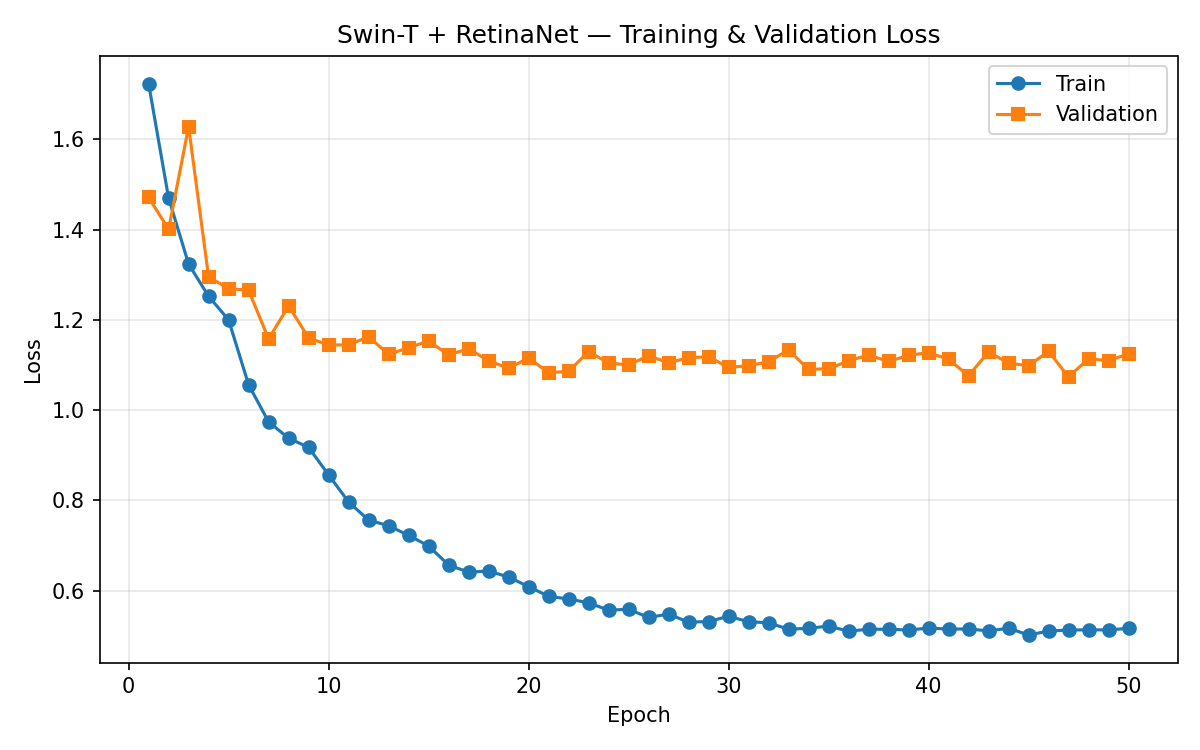
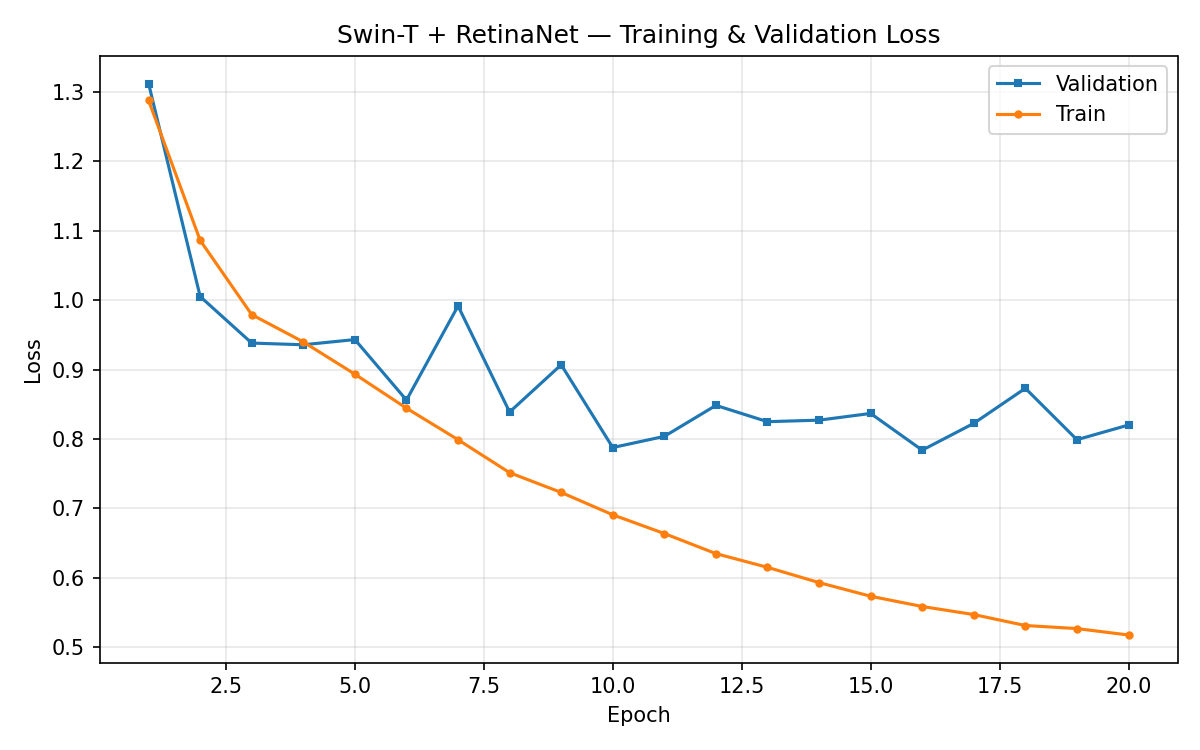
update model

diff --git a/scripts/2.1_swin_transformer_without_ft.py b/scripts/2.1_swin_transformer_without_ft.py
@@ -1,20 +1,16 @@
 #!/usr/bin/env python3
 """
-2.1_swin_transformer.py
-========================
-Swin-T backbone + FPN + RetinaNet for stop-sign / traffic-light detection.
+2.1_swin_transformer_without_ft.py
+==================================
+Swin-T **frozen** ImageNet backbone + trainable FPN + RetinaNet for
+stop-sign / traffic-light detection.  All Swin `features` blocks are
+frozen; only ``backbone.fpn`` and the detection head are updated.
 
-Key training optimisations (vs. previous version):
-  * AMP mixed-precision  → ~40 % faster forward/backward on L40S
-  * Gradient accumulation → large effective batch without OOM
-  * Train-eval only every N epochs (configurable) → halves wall-time
-  * persistent_workers + higher num_workers → faster data loading
-  * Separate eval_batch_size (larger, no grads) → faster inference
+Same optimisations as 2.1_swin_transformer.py (AMP, accum, train-eval stride, etc.).
 
 Usage:
-    python scripts/2.1_swin_transformer.py
-    python scripts/2.1_swin_transformer.py --sweep --epochs 25
-    python scripts/2.1_swin_transformer.py --preset freeze_less
+    python scripts/2.1_swin_transformer_without_ft.py
+    python scripts/2.1_swin_transformer_without_ft.py --epochs 25 --head-lr 3e-4
 """
 
 from __future__ import annotations
@@ -52,7 +48,7 @@ from torchvision.ops.feature_pyramid_network import LastLevelMaxPool
 # ============================================================
 BASE_DIR = Path(__file__).resolve().parent.parent
 DEFAULT_DATA_DIR = BASE_DIR / "dataset"
-DEFAULT_OUTPUT_DIR = BASE_DIR / "swin_runs"
+DEFAULT_OUTPUT_DIR = BASE_DIR / "swin_runs_without_ft"
 
 CLASS_NAMES = {0: "stop sign", 1: "traffic light"}
 NUM_CLASSES = len(CLASS_NAMES) + 1
@@ -62,18 +58,18 @@ IMAGE_EXTENSIONS = (".jpg", ".jpeg", ".png", ".JPG", ".JPEG", ".PNG")
 
 @dataclass
 class TrainConfig:
+    """Swin backbone is always fully frozen; `head_lr` applies to FPN + RetinaNet."""
+
     name: str = "default"
     seed: int = 946
     batch_size: int = 8
     eval_batch_size: int = 16
     num_epochs: int = 20
     head_lr: float = 2e-4
-    backbone_lr: float = 2e-5
     weight_decay: float = 1e-4
     warmup_epochs: int = 5
     num_workers: int = 8
     score_thresh: float = 0.05
-    freeze_stages: int = 4
     min_size: int = 800
     max_size: int = 1333
     accum_steps: int = 2
@@ -82,71 +78,14 @@ class TrainConfig:
 
 
 def default_presets() -> list[TrainConfig]:
+    """Hyperparameter presets (Swin always frozen; only FPN + head vary)."""
     return [
-        TrainConfig(
-            name="default",
-            head_lr=2e-4,
-            backbone_lr=2e-5,
-            freeze_stages=4,
-            weight_decay=1e-4,
-            warmup_epochs=5,
-        ),
-        TrainConfig(
-            name="head_lr_high",
-            head_lr=5e-4,
-            backbone_lr=1e-5,
-            freeze_stages=4,
-            weight_decay=1e-4,
-            warmup_epochs=5,
-        ),
-        TrainConfig(
-            name="head_lr_low",
-            head_lr=1e-4,
-            backbone_lr=3e-5,
-            freeze_stages=4,
-            weight_decay=1e-4,
-            warmup_epochs=5,
-        ),
-        TrainConfig(
-            name="freeze_more",
-            head_lr=3e-4,
-            backbone_lr=5e-5,
-            freeze_stages=6,
-            weight_decay=1e-4,
-            warmup_epochs=5,
-        ),
-        TrainConfig(
-            name="freeze_less",
-            head_lr=2e-4,
-            backbone_lr=1e-5,
-            freeze_stages=2,
-            weight_decay=1e-4,
-            warmup_epochs=5,
-        ),
-        TrainConfig(
-            name="wd_high",
-            head_lr=2e-4,
-            backbone_lr=2e-5,
-            freeze_stages=4,
-            weight_decay=5e-4,
-            warmup_epochs=5,
-        ),
-        TrainConfig(
-            name="wd_low",
-            head_lr=2e-4,
-            backbone_lr=2e-5,
-            freeze_stages=4,
-            weight_decay=5e-5,
-            warmup_epochs=5,
-        ),
-        TrainConfig(
-            name="long_warmup",
-            head_lr=2e-4,
-            backbone_lr=2e-5,
-            freeze_stages=4,
-            weight_decay=1e-4,
-            warmup_epochs=10,
-        ),
+        TrainConfig(name="default", head_lr=2e-4, weight_decay=1e-4, warmup_epochs=5),
+        TrainConfig(name="head_lr_high", head_lr=5e-4, weight_decay=1e-4, warmup_epochs=5),
+        TrainConfig(name="head_lr_low", head_lr=1e-4, weight_decay=1e-4, warmup_epochs=5),
+        TrainConfig(name="wd_high", head_lr=2e-4, weight_decay=5e-4, warmup_epochs=5),
+        TrainConfig(name="wd_low", head_lr=2e-4, weight_decay=5e-5, warmup_epochs=5),
+        TrainConfig(name="long_warmup", head_lr=2e-4, weight_decay=1e-4, warmup_epochs=10),
     ]
 
 
@@ -309,15 +248,13 @@ def _collate(batch):
 class SwinBackboneWithFPN(nn.Module):
     BLOCK_STAGE_INDICES = (1, 3, 5, 7)
 
-    def __init__(self, freeze_stages: int):
+    def __init__(self):
         super().__init__()
         swin = swin_t(weights=Swin_T_Weights.DEFAULT)
         self.stages = swin.features
-
-        for i, stage in enumerate(self.stages):
-            if i < freeze_stages:
-                for param in stage.parameters():
-                    param.requires_grad = False
+        # Entire Swin feature stack frozen — only FPN + RetinaNet train.
+        for p in self.stages.parameters():
+            p.requires_grad = False
 
         self.fpn = FeaturePyramidNetwork(
             in_channels_list=[96, 192, 384, 768],
@@ -336,7 +273,7 @@ class SwinBackboneWithFPN(nn.Module):
 
 
 def build_model(cfg: TrainConfig) -> RetinaNet:
-    backbone = SwinBackboneWithFPN(freeze_stages=cfg.freeze_stages)
+    backbone = SwinBackboneWithFPN()
     anchor_sizes = ((32,), (64,), (128,), (256,), (512,))
     aspect_ratios = ((0.5, 1.0, 2.0),) * len(anchor_sizes)
     anchor_gen = AnchorGenerator(sizes=anchor_sizes, aspect_ratios=aspect_ratios)
@@ -353,20 +290,13 @@ def build_model(cfg: TrainConfig) -> RetinaNet:
 
 
 def get_optimizer_and_scheduler(model: nn.Module, cfg: TrainConfig):
-    backbone_params, other_params = [], []
-    for name, param in model.named_parameters():
-        if not param.requires_grad:
-            continue
-        if "backbone.stages" in name:
-            backbone_params.append(param)
-        else:
-            other_params.append(param)
+    trainable = [p for p in model.parameters() if p.requires_grad]
+    if not trainable:
+        raise RuntimeError("No trainable parameters (FPN + head should be trainable).")
 
     optimizer = optim.AdamW(
-        [
-            {"params": backbone_params, "lr": cfg.backbone_lr},
-            {"params": other_params, "lr": cfg.head_lr},
-        ],
+        trainable,
+        lr=cfg.head_lr,
         weight_decay=cfg.weight_decay,
     )
 
@@ -645,16 +575,16 @@ def save_f1_curves(train_vals, val_vals, out_dir: Path):
     )
 
 
-def save_lr_curves(head_lrs: list[float], backbone_lrs: list[float], out_dir: Path):
-    if not head_lrs:
+def save_lr_curves(lrs: list[float], out_dir: Path):
+    """Single LR curve — Swin frozen; schedule applies to FPN + RetinaNet only."""
+    if not lrs:
         return
     fig, ax = plt.subplots(figsize=(8, 5))
-    epochs = range(1, len(head_lrs) + 1)
-    ax.plot(epochs, head_lrs, label="Head LR", linewidth=2)
-    ax.plot(epochs, backbone_lrs, label="Backbone LR", linewidth=2)
+    epochs = range(1, len(lrs) + 1)
+    ax.plot(epochs, lrs, label="FPN + RetinaNet LR", linewidth=2, color="tab:blue")
     ax.set_xlabel("Epoch")
     ax.set_ylabel("Learning rate")
-    ax.set_title("Learning Rate Schedule")
+    ax.set_title("Learning rate (frozen Swin backbone)")
     ax.set_yscale("log")
     ax.legend()
     ax.grid(True, alpha=0.3)
@@ -856,8 +786,7 @@ def run_training(
     print(f"Device : {DEVICE}")
     print(f"Data   : {data_dir}")
     print(f"Output : {output_dir}")
-    print(f"Config : {cfg.name}  head_lr={cfg.head_lr}  backbone_lr={cfg.backbone_lr}  "
-          f"freeze_stages={cfg.freeze_stages}  wd={cfg.weight_decay}")
+    print(f"Config : {cfg.name}  lr(FPN+head)={cfg.head_lr}  wd={cfg.weight_decay}")
     print(f"  batch={cfg.batch_size}  eval_batch={cfg.eval_batch_size}  "
           f"accum={cfg.accum_steps}  (effective batch={cfg.batch_size * cfg.accum_steps})  "
           f"AMP={cfg.use_amp}  train_eval_every={cfg.train_eval_every}")
@@ -899,8 +828,8 @@ def run_training(
     n_total = sum(p.numel() for p in model.parameters()) / 1e6
     n_train = sum(p.numel() for p in model.parameters() if p.requires_grad) / 1e6
     print(f"\n  Parameters : {n_total:.1f} M total, {n_train:.1f} M trainable")
-    print(f"  Frozen     : stages 0–{cfg.freeze_stages - 1}  |  "
-          f"Fine-tuned : stages {cfg.freeze_stages}–7")
+    print("  Frozen     : full Swin-T `features` (ImageNet weights)")
+    print("  Trainable  : FPN + RetinaNet head only")
 
     optimizer, scheduler = get_optimizer_and_scheduler(model, cfg)
     scaler = GradScaler("cuda") if (cfg.use_amp and DEVICE.type == "cuda") else None
@@ -915,7 +844,6 @@ def run_training(
     train_ap50_95: list[float] = []
     train_f1: list[float] = []
     head_lrs: list[float] = []
-    backbone_lrs: list[float] = []
 
     cls_names = list(CLASS_NAMES.values())
     val_ap50_per_class: dict[str, list[float]] = {c: [] for c in cls_names}
@@ -954,8 +882,7 @@ def run_training(
             train_f1.append(trn_m["mean_f1"])
 
         scheduler.step()
-        head_lrs.append(optimizer.param_groups[1]["lr"])
-        backbone_lrs.append(optimizer.param_groups[0]["lr"])
+        head_lrs.append(optimizer.param_groups[0]["lr"])
 
         train_losses.append(trn_loss)
         val_losses.append(val_loss)
@@ -1007,7 +934,7 @@ def run_training(
     save_ap50_curves(train_ap50, val_ap50, output_dir)
     save_ap50_95_curves(train_ap50_95, val_ap50_95, output_dir)
     save_f1_curves(train_f1, val_f1, output_dir)
-    save_lr_curves(head_lrs, backbone_lrs, output_dir)
+    save_lr_curves(head_lrs, output_dir)
     save_train_val_gap_ap50(train_ap50, val_ap50, output_dir)
     save_metrics_overview(
         train_losses, val_losses,
@@ -1059,6 +986,8 @@ def run_training(
 
     summary = {
         "preset": cfg.name,
+        "frozen_backbone": "full_swin_features",
+        "trainable": "fpn_and_retinanet_head",
         "best_val_mAP_50": best_val_map,
         "test_mAP_50": test_m["mAP_50"],
         "test_mAP_50_95": test_m["mAP_50_95"],
@@ -1079,16 +1008,17 @@ def run_training(
 # ============================================================
 def parse_args():
     p = argparse.ArgumentParser(
-        description="Swin-T + RetinaNet fine-tuning on YOLO data."
+        description="Swin-T frozen + FPN + RetinaNet (no backbone fine-tuning).",
     )
     p.add_argument("--data-dir", type=Path, default=None)
     p.add_argument("--output-dir", type=Path, default=DEFAULT_OUTPUT_DIR)
     p.add_argument("--epochs", type=int, default=None)
     p.add_argument("--batch-size", type=int, default=None)
     p.add_argument("--eval-batch-size", type=int, default=None)
-    p.add_argument("--head-lr", type=float, default=None)
-    p.add_argument("--backbone-lr", type=float, default=None)
-    p.add_argument("--freeze-stages", type=int, default=None)
+    p.add_argument(
+        "--head-lr", type=float, default=None,
+        help="LR for FPN + RetinaNet (Swin backbone frozen)",
+    )
     p.add_argument("--weight-decay", type=float, default=None)
     p.add_argument("--warmup-epochs", type=int, default=None)
     p.add_argument("--num-workers", type=int, default=None)
@@ -1112,10 +1042,6 @@ def _merge_cli(cfg: TrainConfig, args) -> TrainConfig:
         cfg.eval_batch_size = args.eval_batch_size
     if args.head_lr is not None:
         cfg.head_lr = args.head_lr
-    if args.backbone_lr is not None:
-        cfg.backbone_lr = args.backbone_lr
-    if args.freeze_stages is not None:
-        cfg.freeze_stages = args.freeze_stages
     if args.weight_decay is not None:
         cfg.weight_decay = args.weight_decay
     if args.warmup_epochs is not None:
